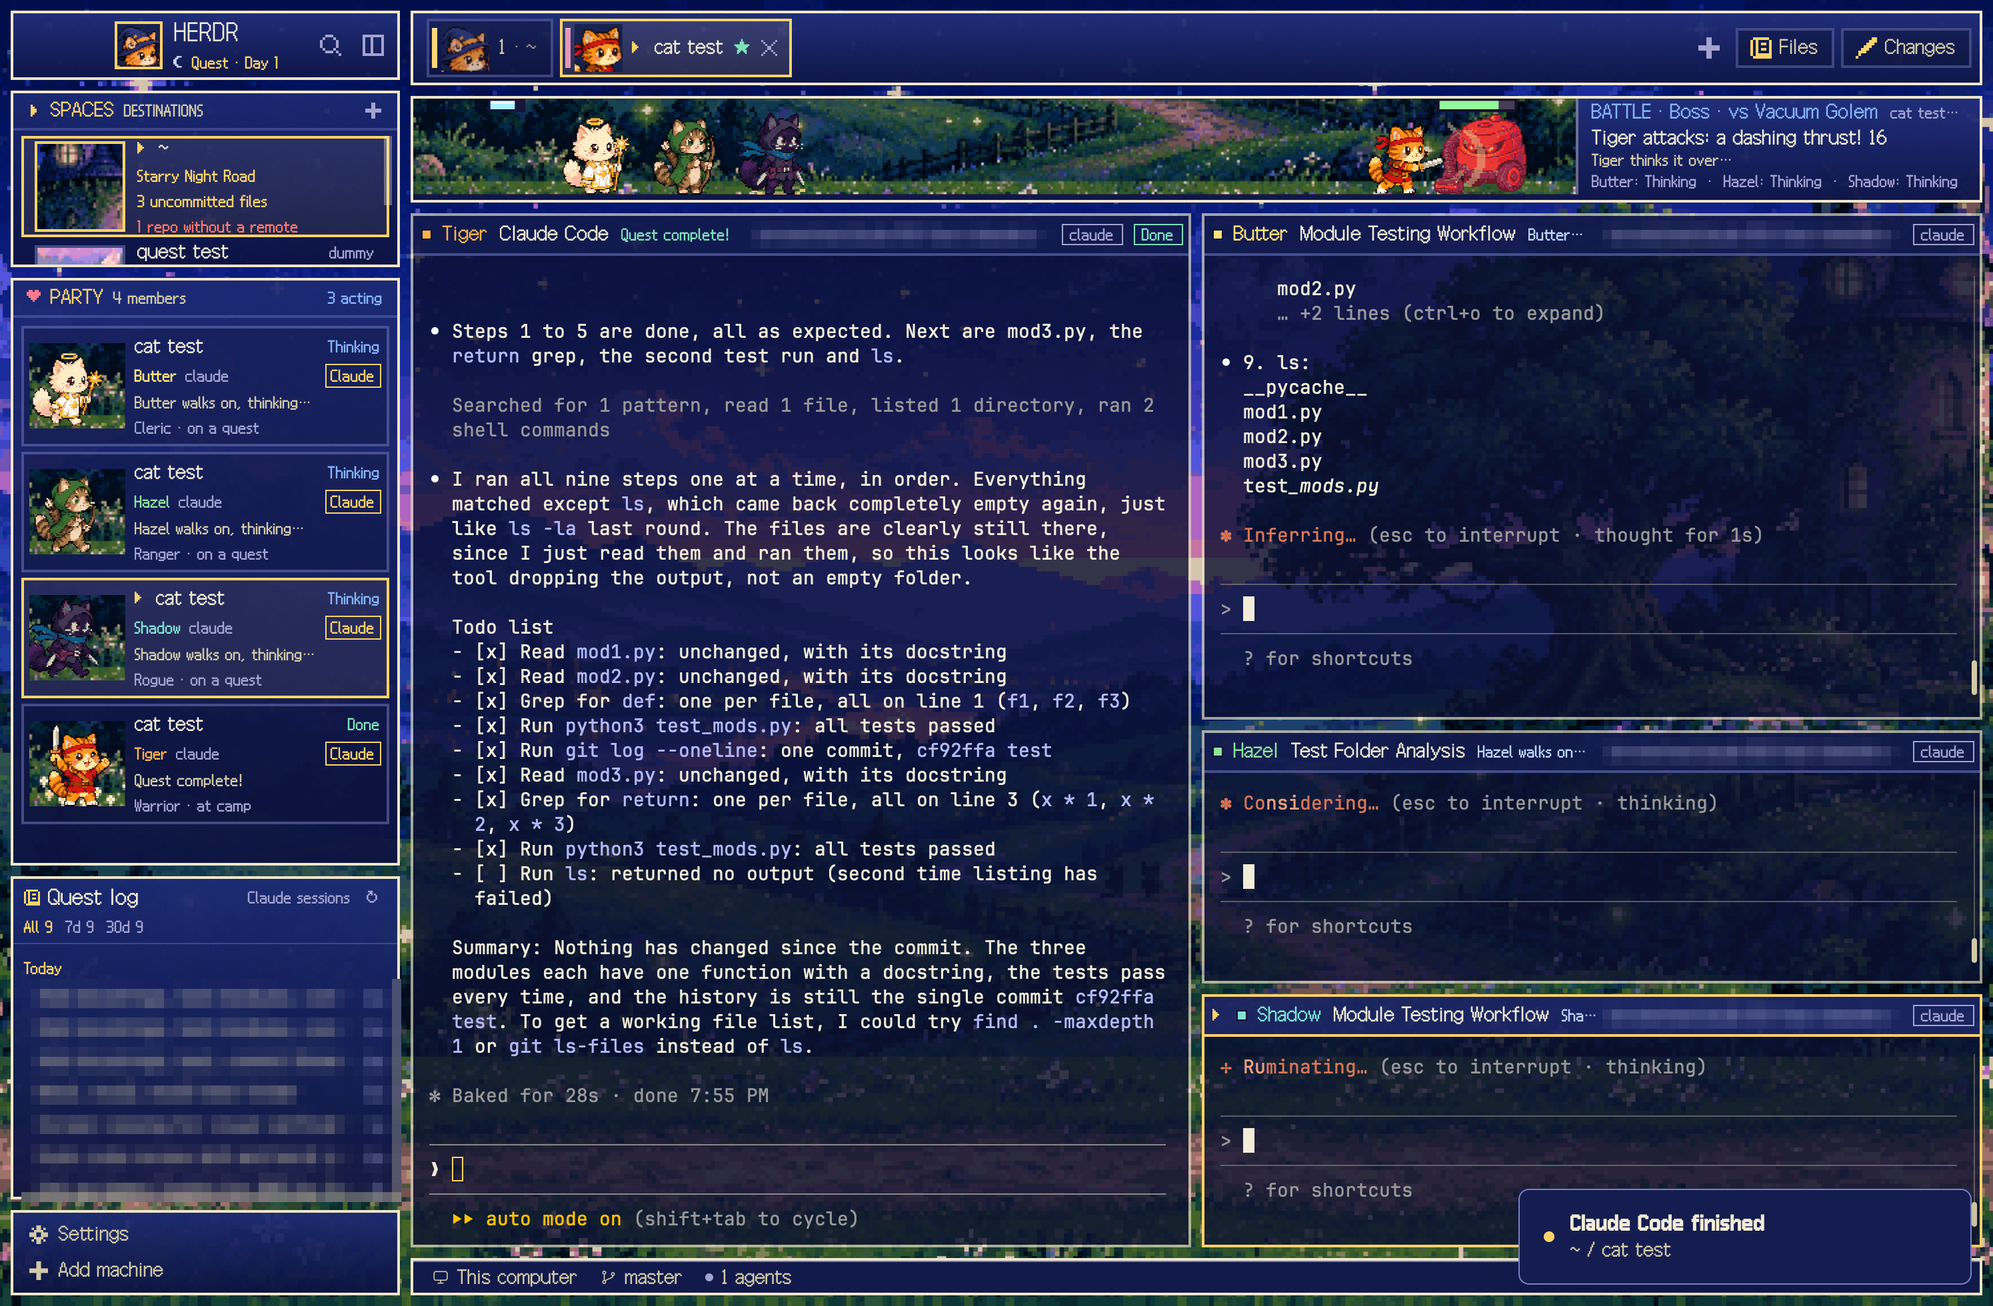
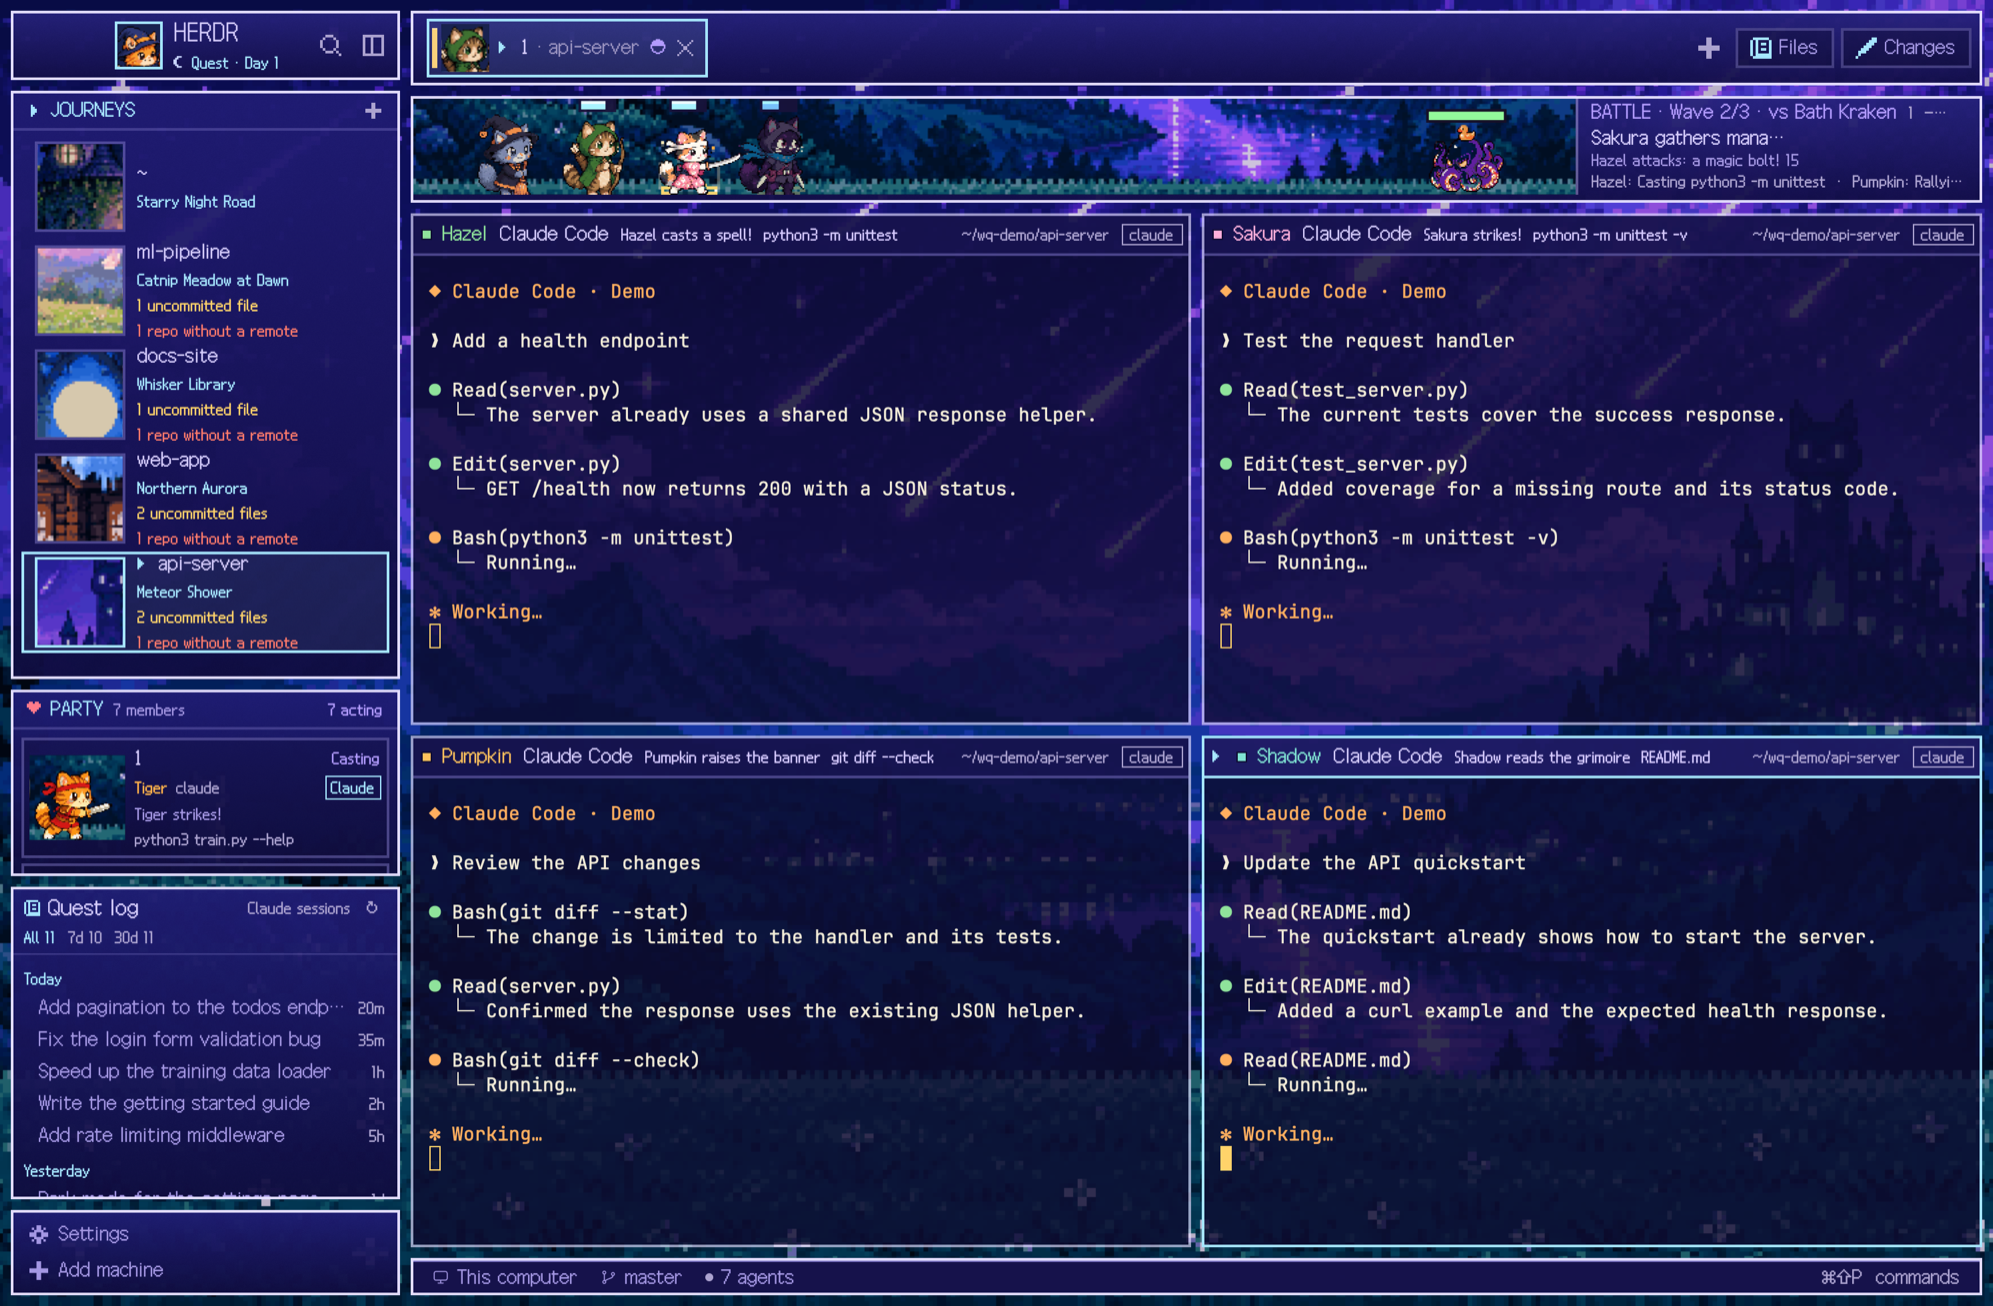
Refresh Whisker Quest demos and document SSH support

diff --git a/README.md b/README.md
@@ -8,7 +8,9 @@ knight charges when it runs tests, the cleric heals the party, and the whole par
 mimics and the dreaded **Vacuum Golem** on a battle stage above your terminals. Each Herdr space has its own scene,
 so switching spaces takes you somewhere new.
 
-![Whisker Quest in Herdr: four cats fight the Vacuum Golem above four Claude Code panes](docs/hero.png)
+![Whisker Quest in Herdr with four demo terminals, a cat battle, and a demo Quest log](docs/hero.png)
+
+[See the web-app demo space and its Quest log](docs/demo-web.png).
 
 ![The battle stage, recorded live: the party fights, Tiger uses TIGER CLAW, the cleric heals, the Vacuum Golem falls, and a treasure chest appears](docs/battle.gif)
 
@@ -53,7 +55,7 @@ space you're in:
   and the whole window follows it: the wallpaper, every panel's colors, the battle stage, its monster and the cards'
   little stages. Click **Quest · Day N** in the top-left corner to give the current space the next scene (it is
   remembered), or pin one by name in `mods/wq-spaces/places.json`: `{ "my-project": "snow-north" }`.
-- **Quest log**: your Claude Code sessions on this Mac (every login: `claude`, `claude2`, …), grouped by day.
+- **Quest log**: your Claude Code sessions on this computer and connected SSH machines (every login: `claude`, `claude2`, …), grouped by day.
   Click one to continue it in a new tab in its folder, or to jump to the tab already running it. Right-click to copy
   its `claude --resume` command.
 - **Pixel everything**: tabs as inventory slots with each cat's face, spaces (JOURNEYS) as scene tiles with their git state,
@@ -185,9 +187,9 @@ own files. Here is what talks to what while it runs:
    `layers.js`). To keep that within Herdr's render budget, `wq-pane/stagelayers.js` builds the stage's elements
    ahead of time: boxes of one font share an element, spacer glyphs place sprites side by side, and each text line
    is one art pixel tall, so a sprite's height on the stage is just which line it's on.
-8. **Local only.** The other mods ask your Mac directly: `wq-sessions` reads Claude Code's transcripts in
-   `~/.claude*/projects` (with `python3`), `wq-spaces` runs `git status`, `wq-pane` runs `ps` to name the account of
-   an agent you typed by hand. Nothing goes over the network.
+8. **Machine-local lookups.** `wq-sessions` runs its Python reader on this computer and each connected SSH machine
+   to list Claude Code sessions from `~/.claude*/projects`. `wq-pane` runs `ps` on the terminal’s machine to identify
+   the account of an agent you started by hand.
 
 ### How the art is built (offline, once)
 
